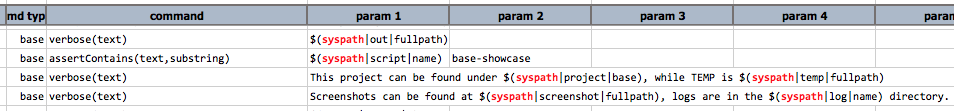
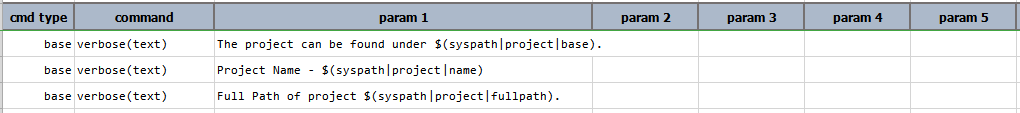
Added example on $(syspath) built-in function.

diff --git a/functions/$(syspath).md b/functions/$(syspath).md
@@ -13,7 +13,8 @@ test data, etc. By using this function, one can keep the test project more porta
 qualified path, such as `C:\projects\MyProject` or 
 `/Users/user123/projects/MyApplication/artifact/script/TEST-1234.xlsx`, one can specify `$(syspath|project|fullpath)` 
 or `$(syspath|script|fullpath)/TEST-1234.xlsx` instead. During execution, Nexial will resolve the appropriate 
-physical path, thus your script is guarded against location or even OS changes.
+physical path, thus your script is guarded against location or even OS changes.For using this built-in function a proper
+[`Nexial Project Structure`](../../userguide/UnderstandingProjectStructure) must be followed.
 
 For each of the following options, one can add a second parameter as followed:
 - **name** - the (directory) name of the target location
@@ -22,21 +23,110 @@ For each of the following options, one can add a second parameter as followed:
 
 
 ### Available Functions
-- **`$(syspath|project|...)`** - the location of the target project.
-- **`$(syspath|script|...)`** - the standard location where Nexial scripts (Excel) are stored. This is usually the 
-  `artifact/script` directory under the target project.
-- **`$(syspath|data|...)`** - the standard location where Nexial test data (Excel) are stored. This is usually the 
-  `artifact/data`  directory under the target project, but can be overridden via the `-data` command line argument.
-- **`$(syspath|plan|...)`** - the standard location where Nexial plans (Excel) are stored. This is usually the
-  `artifact/plan` directory under the target project.
-- **`$(syspath|out|...)`** - the output directory for the current execution. This would be a directory named `output` 
+
+#### `$(syspath|project|...)`
+The location of the target project.
+
+**Example**<br/>
+Script:<br/>
+![script](image/$(syspath)_01.png)
+
+Output:<br/>
+![output](image/$(syspath)_02.png)
+
+-----
+
+#### `$(syspath|script|...)`
+The standard location where Nexial scripts (Excel) are stored. This is usually the 
+  [`artifact/script`](../../userguide/UnderstandingProjectStructure/index#artifact/script) directory under the target project.
+        
+**Example**<br/>
+Script:<br/>
+![script](image/$(syspath)_03.png)
+
+Output:<br/>
+![output](image/$(syspath)_04.png)
+
+-----
+
+#### `$(syspath|data|...)` 
+The standard location where Nexial test data (Excel) are stored. This is usually the 
+  [`artifact/data`](../../userguide/UnderstandingProjectStructure/index#artifact/data) directory under the target project, but can be overridden via the `-data` command line argument.
+    
+**Example**<br/>
+Script:<br/>
+![script](image/$(syspath)_05.png)
+
+Output:<br/>
+![output](image/$(syspath)_06.png)
+
+-----
+ 
+#### `$(syspath|plan|...)`
+The standard location where Nexial plans (Excel) are stored. This is usually the
+  [`artifact/plan`](../../userguide/UnderstandingProjectStructure/index#artifact/plan) directory under the target project.
+    
+**Example**<br/>
+Script:<br/>
+![script](image/$(syspath)_07.png)
+
+Output:<br/>
+![output](image/$(syspath)_08.png)
+
+-----
+ 
+#### `$(syspath|out|...)`
+The output directory for the current execution. This would be a directory named [`output`](../../userguide/UnderstandingProjectStructure/index#output) 
   under the target project, or whatever specified via the `-output` command line argument.
-- **`$(syspath|screenshot|...)`** - the standard location where screen captures are stored. This is usually a 
+    
+**Example**<br/>
+Script:<br/>
+![script](image/$(syspath)_09.png)
+
+Output:<br/>
+![output](image/$(syspath)_10.png)
+
+-----
+
+#### `$(syspath|screenshot|...)`
+The standard location where screen captures are stored. This is usually a 
   directory named  `captures` under the output directory.
-- **`$(syspath|log|...)`** - the standard location where logs are being kept. This is usually a directory named 
+    
+**Example**<br/>
+Script:<br/>
+![script](image/$(syspath)_11.png)
+
+Output:<br/>
+![output](image/$(syspath)_12.png)
+
+-----
+
+#### `$(syspath|log|...)`
+The standard location where logs are being kept. This is usually a directory named 
   `logs` under the output directory.
-- **`$(syspath|temp|...)`** - the standard temporary storage location as defined via `java.io.tempdir` environment 
+    
+**Example**<br/>
+Script:<br/>
+![script](image/$(syspath)_13.png)
+
+Output:<br/>
+![output](image/$(syspath)_14.png)
+
+-----
+
+#### `$(syspath|temp|...)`
+The standard temporary storage location as defined via `java.io.tempdir` environment 
   variable, which is often mapped to the `%TEMP%` or `$TMP` system variable.
+    
+**Example**<br/>
+Script:<br/>
+![script](image/$(syspath)_15.png)
+
+Output:<br/>
+![output](image/$(syspath)_16.png)
+
+-----
+
 
 For each of these functions, one would add a secondary parameter as listed in the **Description** section. For 
 example,
@@ -44,13 +134,6 @@ example,
 - `$(syspath|out|base)` would render the parent directory (full path) of the output directory
 - `$(syspath|temp|fullpath)` would render the full path of the temp. directory
 
-
-### Example
-Here are some examples of using this built-in function:<br/>
-![script](image/$(syspath)_01.png)
-
-... and the **output**:<br/>
-![output](image/$(syspath)_02.png)
 
 **Note**: When this function needs to be used around the text that may contain path separator `/`, for e.g. `XML`
 or `HTML` ending tags like `<file>$(syspath|data|fullpath)/mydata.txt</file>`, in such a case, it is recommended to
@@ -61,3 +144,5 @@ and then in the target text as `<file>${mydatafile}</file>`.
 
 ### See Also
 - [`$(projectfile)`]($(projectfile))
+
+<script>jQuery(document).ready(function () { newOperationSelect(); });</script>

diff --git a/userguide/UnderstandingProjectStructure.md b/userguide/UnderstandingProjectStructure.md
@@ -57,7 +57,7 @@ Below is the general directory/file structure of a standard Nexial automation pr
 2. The `artifact` directory contains 3 sub-directories: `data`, `plan`, `script`. These are the directories are used 
    to store test data, test plan and test scripts respectively.
 
-   1. `artifact/script` - this directory will store your test scripts.  The script files may be named to your 
+   1. `artifact/script`<a name="artifact/script"></a> - this directory will store your test scripts.  The script files may be named to your 
    likings.  Generally the file name would reflect the overall functionality targeted for automation. Note that this is
    different than the naming recommendation for the worksheets within each test script. Each worksheet should reflect
    a test scenario, such as "User Login", "Search for Best Deal", "Import Client Data" and "Complete Order". The 
@@ -68,7 +68,7 @@ Below is the general directory/file structure of a standard Nexial automation pr
    `description` section of respective sections, as such test object and user acceptance criteria.<br/><br/> 
    The [macro library files](../commands/base/macro(file,sheet,name)) are stored in this location as well.
 
-   2. `artifact/data` - this directory will store your test data.  By default the data file is expected to be named in
+   2. `artifact/data` <a name="artifact/data"></a>- this directory will store your test data.  By default the data file is expected to be named in
    correspondent to the test script: `<TEST SCRIPT NAME>.data.xlsx`.  But this convention can be overridden during
    execution via the `-data` flag to [`nexial.[cmd|sh]` script](BatchFiles#nexialcmd--nexialsh). Similar to test 
    scripts, each data file would contain one or many data sheets (worksheets) that correspond to the test scenarios. 
@@ -76,7 +76,7 @@ Below is the general directory/file structure of a standard Nexial automation pr
    [`nexial.[cmd|sh]` script](BatchFiles#nexialcmd--nexialsh).
    In general, other data files such as SQL, JSON, test data files (text) are stored in this location as well.
 
-   3. `artifact/plan` - this directory will store all the test plan.  Each test plan may contain one or more test 
+   3. `artifact/plan` <a name="artifact/plan"></a>- this directory will store all the test plan.  Each test plan may contain one or more test 
    scripts and data files.  It may contain test scripts and data files from a different project as well. For test 
    artifacts of the same project, and the standard convention is followed, they can be referenced simply by the file
    name. In other words, test scripts are assumed to be found in `artifact/script` directory and data files are
